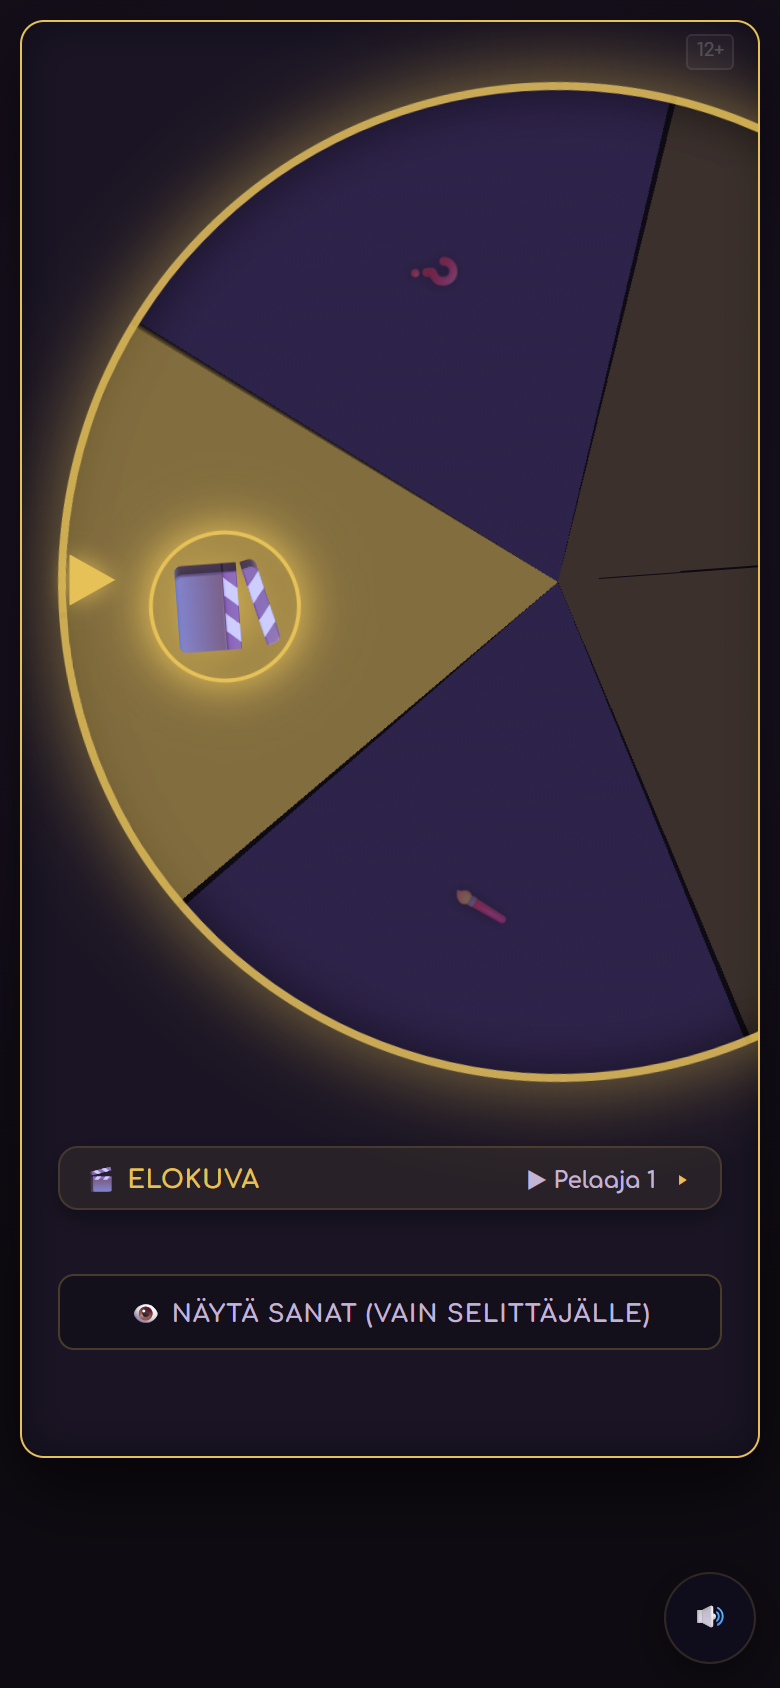
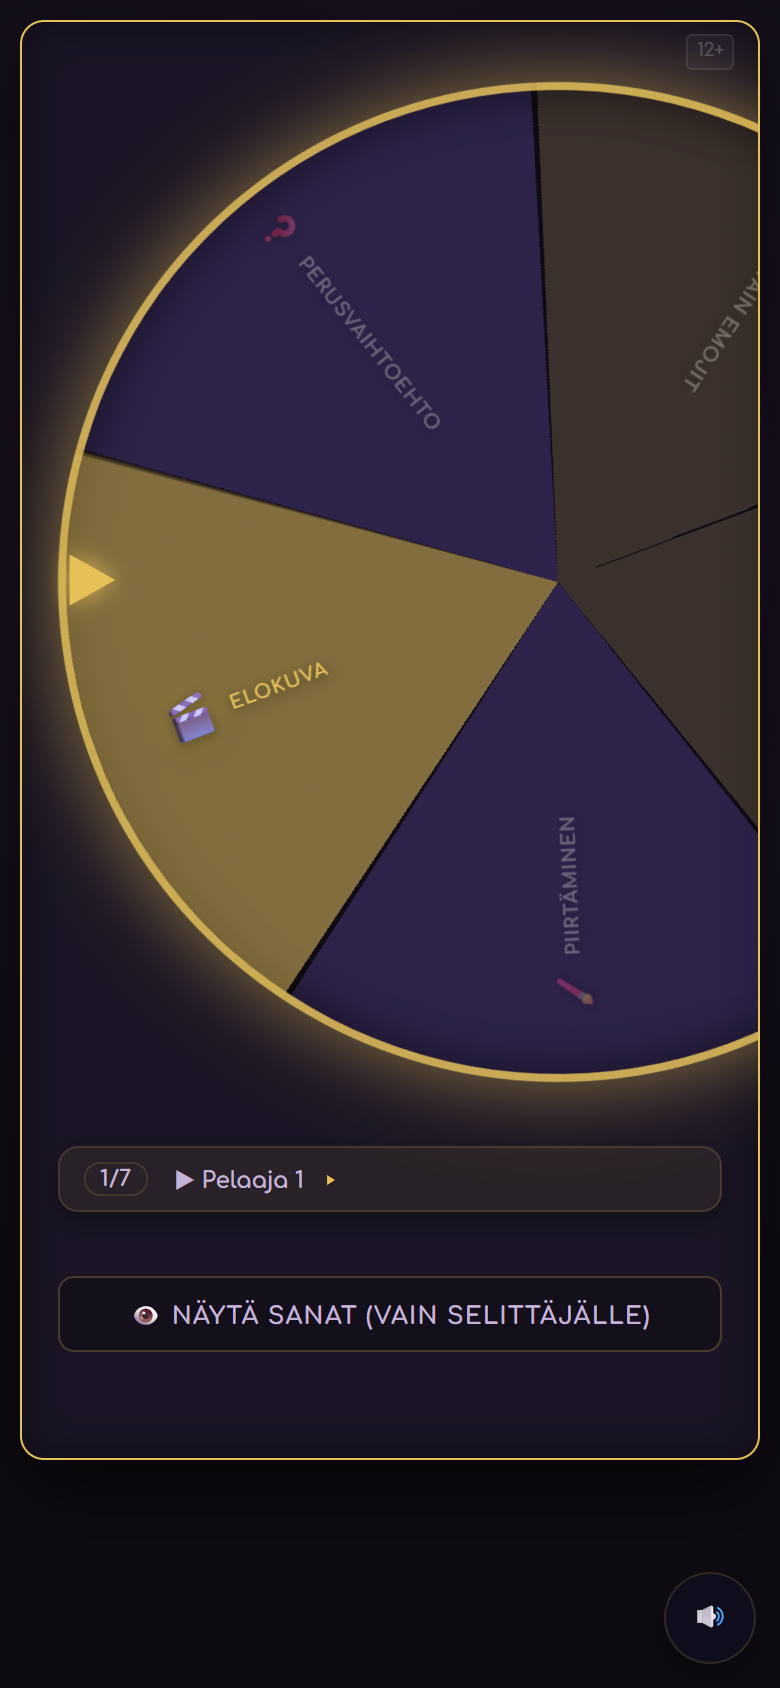
Wheel sector labels + single theme name during wheel-rest (tasks 19-20)
Task 19 — radial labels on wheel sectors:
- .theme-drum-item anchor + .drum-tag = [emoji][label] along the spoke
  (rotate(mid) translateY(-R) rotate(90°) → reads rim→hub; winner label
  always lands horizontal under the left pointer)
- smaller emojis (18-24px), uppercase labels 9-12px on all sectors
- winner accent = wedge + gold label only — removed the ::after ring
- aimPoint targets sector mid for span >= 120° so wide/single sectors
  land centered with a horizontal label

Task 20 — theme name only on the wheel while it rests:
- body:has(.drum-rest) hides #chipTheme and #themeBlock (pure CSS, no JS);
  when the wheel leaves, chip and card get the theme back automatically
- covers local (#loader) and guest (#ngDrum); vapaavalintainen keeps
  the instruction visible outside #themeBlock
- Pelaaja name duplication kept intentionally (summary↔detail pattern)

verify16 58/58, verify15 41/41, verify17 42/42, verify8 20/20.

Generated with [Devin](https://devin.ai)

diff --git a/audit/tool/verify16.js b/audit/tool/verify16.js
@@ -60,9 +60,16 @@ const wheelState = (page, loaderId, wheelId, hubId) => evl(page, (l, w, h) => {
     const cap = ld ? ld.querySelector('.drum-caption') : null;
     const wedge = wh ? wh.querySelector('.theme-drum-wedge') : null;
     const winEl = wh ? wh.querySelector('.theme-drum-item.winner') : null;
+    const winLab = winEl ? winEl.querySelector('.drum-label') : null;
+    const winLabRect = winLab ? winLab.getBoundingClientRect() : null;
     const ptr = ld ? ld.querySelector('.theme-drum-pointer') : null;
     const wr = wh ? wh.getBoundingClientRect() : null;
     const pr = ptr ? ptr.getBoundingClientRect() : null;
+    const tags = wh ? [...wh.querySelectorAll('.theme-drum-item')].map(el => ({
+        theme: el.dataset.theme,
+        label: el.querySelector('.drum-label') ? el.querySelector('.drum-label').textContent : null,
+        emoji: el.querySelector('.drum-emoji') ? el.querySelector('.drum-emoji').textContent : null
+    })) : [];
     return {
         loader: ld ? getComputedStyle(ld).display : 'MISSING',
         rest: ld ? ld.classList.contains('drum-rest') : false,
@@ -72,6 +79,10 @@ const wheelState = (page, loaderId, wheelId, hubId) => evl(page, (l, w, h) => {
         captionHidden: cap ? getComputedStyle(cap).display === 'none' : false,
         wedge: wedge ? getComputedStyle(wedge).opacity : 'none',
         winnerTheme: winEl ? winEl.dataset.theme : null,
+        winnerRing: winEl ? getComputedStyle(winEl, '::after').content : 'n/a',
+        winnerLabelColor: winLab ? getComputedStyle(winLab).color : null,
+        winnerLabelHorizontal: winLabRect ? winLabRect.width > winLabRect.height : null,
+        tags,
         pointerLeft: pr && wr ? (pr.x + pr.width / 2) < (wr.x + wr.width / 2) : null,
         wheelBleeds: wr ? wr.right > document.documentElement.clientWidth : null
     };
@@ -82,7 +93,11 @@ const panelState = (page) => evl(page, () => ({
     btnDisplay: getComputedStyle(document.getElementById('btnDisplayWords')).display,
     ruleVisible: getComputedStyle(document.getElementById('ruleInstruction')).display,
     ruleText: document.getElementById('ruleInstruction').textContent.slice(0, 60),
-    roundCtl: getComputedStyle(document.getElementById('roundControls')).display
+    roundCtl: getComputedStyle(document.getElementById('roundControls')).display,
+    chipThemeDisplay: getComputedStyle(document.getElementById('chipTheme')).display,
+    chipRoundVisible: getComputedStyle(document.getElementById('chipRound')).display !== 'none',
+    chipTurnText: document.getElementById('chipTurn').textContent,
+    themeBlockDisplay: getComputedStyle(document.getElementById('themeBlock')).display
 }));
 
 (async () => {
@@ -116,6 +131,10 @@ const panelState = (page) => evl(page, () => ({
         check('hub textContent still tracks theme', ws.hub === 'pantomiimi', ws.hub);
         check('winner wedge shown', ws.wedge === '1', ws.wedge);
         check('winner item = rolled theme', ws.winnerTheme === 'pantomiimi', String(ws.winnerTheme));
+        check('every sector has emoji+label', ws.tags.length > 0 && ws.tags.every(t => t.label === t.theme && t.emoji && t.emoji.length > 0), JSON.stringify(ws.tags));
+        check('no winner ring (::after none)', ws.winnerRing === 'none', ws.winnerRing);
+        check('winner label golden', ws.winnerLabelColor === 'rgb(229, 193, 88)', String(ws.winnerLabelColor));
+        check('winner label horizontal under pointer', ws.winnerLabelHorizontal === true);
         check('pointer at wheel left edge', ws.pointerLeft === true);
 
         let ps = await panelState(page);
@@ -123,6 +142,8 @@ const panelState = (page) => evl(page, () => ({
         check('aria-expanded=false', ps.aria === 'false', ps.aria);
         check('Näytä sanat CTA visible while wheel rests', ps.btnDisplay !== 'none', ps.btnDisplay);
         check('chip visible (aria-controls ok)', await evl(page, () => document.getElementById('turnChip').getBoundingClientRect().height > 0));
+        check('chip theme hidden during rest (only on wheel)', ps.chipThemeDisplay === 'none', ps.chipThemeDisplay);
+        check('chip keeps round+player during rest', ps.chipRoundVisible === true && /▶/.test(ps.chipTurnText), JSON.stringify(ps));
 
         await tap(page, '#btnDisplayWords'); await sleep(600);
         ws = await wheelState(page, 'loader', 'drumWheel', 'drumHubName');
@@ -132,6 +153,8 @@ const panelState = (page) => evl(page, () => ({
         ps = await panelState(page);
         check('panel still collapsed after words open', ps.collapsed === true);
         check('btnDisplayWords gone', ps.btnDisplay === 'none');
+        check('chip theme back after wheel gone', ps.chipThemeDisplay !== 'none', ps.chipThemeDisplay);
+        check('themeBlock back after wheel gone', ps.themeBlockDisplay !== 'none', ps.themeBlockDisplay);
         await page.close();
 
         // ============ B. vapaavalintainen ============
@@ -145,6 +168,8 @@ const panelState = (page) => evl(page, () => ({
         check('winner = vapaavalintainen', ws.winnerTheme === 'vapaavalintainen', String(ws.winnerTheme));
         ps = await panelState(page);
         check('panel expanded for vapaavalintainen', ps.collapsed === false, JSON.stringify(ps));
+        check('themeBlock hidden while wheel rests (no ehto dup)', ps.themeBlockDisplay === 'none', ps.themeBlockDisplay);
+        check('chip theme hidden for vapaavalintainen', ps.chipThemeDisplay === 'none', ps.chipThemeDisplay);
         check('instruction visible', ps.ruleVisible !== 'none' && /Keksi/i.test(ps.ruleText), `${ps.ruleVisible} ${ps.ruleText}`);
         check('no Näytä sanat button', ps.btnDisplay === 'none', ps.btnDisplay);
         check('round controls visible', ps.roundCtl !== 'none', ps.roundCtl);
@@ -204,6 +229,8 @@ const panelState = (page) => evl(page, () => ({
         check('B: guest caption hidden', gs.captionHidden === true);
         check('B: guest winner wedge', gs.wedge === '1', gs.wedge);
         check('B: guest winner = pantomiimi', gs.winnerTheme === 'pantomiimi', String(gs.winnerTheme));
+        check('B: guest sectors labeled', gs.tags.length > 0 && gs.tags.every(t => t.label === t.theme && t.emoji), JSON.stringify(gs.tags));
+        check('B: guest no winner ring', gs.winnerRing === 'none', gs.winnerRing);
         check('B: guest pointer at left edge', gs.pointerLeft === true);
         check('B: theme card hidden while drum rests', await evl(B, () => getComputedStyle(document.getElementById('ngThemeBlock')).display === 'none'));
 

diff --git a/styles.css b/styles.css
@@ -1098,6 +1098,12 @@ body.spell-help-modal-open {
 .drum-animation.drum-rest { animation: none; }
 .drum-animation.drum-rest .drum-caption { color: var(--gold); opacity: 0.95; }
 
+/* Teeman nimi vain pyörällä levon aikana — ei tekstikaksoiskappaleita.
+   Kun rumpu poistuu (.drum-rest pois), chip + kortti palaavat itsestään.
+   Koskee myös vierasta: #ngDrum.drum-rest → sama sääntö. */
+body:has(.drum-rest) #chipTheme { display: none; }
+body:has(.drum-rest) #themeBlock { display: none; }
+
 .flash-now {
     position: absolute;
     top: 50%;
@@ -3073,23 +3079,43 @@ body[data-net="room-guest"] .room-code-chip { display: inline-block; }
     35% { transform: translateY(-50%) rotate(20deg) scale(1.18); }
     100% { transform: translateY(-50%) rotate(0deg) scale(1); }
 }
+/* .theme-drum-item = ankkuripiste säteellä; .drum-tag (emoji + teeman nimi)
+   asettuu säteen suuntaan rotate(mid+90) ansiosta — voittajan teksti aina vaakasuora */
 .theme-drum-item {
     position: absolute;
     left: 50%;
     top: 50%;
-    font-size: clamp(24px, 6vw, 34px);
-    width: 44px;
-    height: 44px;
-    margin: -22px 0 0 -22px;
+    width: 0;
+    height: 0;
+    margin: 0;
+    z-index: 2;
+    transition: opacity 0.3s;
+}
+.drum-tag {
+    position: absolute;
+    left: 0;
+    top: 0;
+    transform: translate(-50%, -50%);
     display: flex;
     align-items: center;
-    justify-content: center;
+    gap: 6px;
+    white-space: nowrap;
     pointer-events: none;
     filter: drop-shadow(0 1px 3px rgba(0,0,0,0.7));
-    z-index: 2;
-    transition: opacity 0.3s, font-size 0.3s;
 }
-/* Voittava sektori: kultainen kiila + suuri emojikehä, muut himmenevät */
+.drum-emoji {
+    font-size: clamp(18px, 4.5vw, 24px);
+    line-height: 1;
+    transition: font-size 0.3s;
+}
+.drum-label {
+    font-size: clamp(9px, 2.4vw, 12px);
+    font-weight: 700;
+    letter-spacing: 0.6px;
+    text-transform: uppercase;
+    color: #e9e4d8;
+}
+/* Voittava sektori: kultainen kiila + korostettu kyltti, muut himmenevät */
 .theme-drum-wedge {
     position: absolute;
     inset: 0;
@@ -3102,17 +3128,15 @@ body[data-net="room-guest"] .room-code-chip { display: inline-block; }
 .theme-drum-wheel.landed .theme-drum-item { opacity: 0.35; }
 .theme-drum-wheel.landed .theme-drum-item.winner {
     opacity: 1;
-    font-size: 52px;
     z-index: 3;
-    filter: drop-shadow(0 0 12px rgba(229,193,88,0.95));
 }
-.theme-drum-item.winner::after {
-    content: '';
-    position: absolute;
-    inset: -16px;
-    border: 2px solid var(--gold);
-    border-radius: 50%;
-    box-shadow: 0 0 18px rgba(229,193,88,0.85), inset 0 0 12px rgba(229,193,88,0.3);
+.theme-drum-item.winner .drum-emoji {
+    font-size: clamp(22px, 5.5vw, 30px);
+    filter: drop-shadow(0 0 8px rgba(229,193,88,0.8));
+}
+.theme-drum-item.winner .drum-label {
+    color: var(--gold);
+    text-shadow: 0 0 10px rgba(229,193,88,0.7);
 }
 .theme-drum-hub {
     /* Keskitulos pois — ehto näkyy chipissä + voittavan sektorin kuvassa */
@@ -3122,8 +3146,9 @@ body[data-net="room-guest"] .room-code-chip { display: inline-block; }
     display: none; /* tekstikaksoiskappale pois — nimi chipissä */
 }
 @media (max-width: 360px) {
-    .theme-drum-item { font-size: 22px; width: 34px; height: 34px; margin: -17px 0 0 -17px; }
-    .theme-drum-wheel.landed .theme-drum-item.winner { font-size: 40px; }
+    .drum-emoji { font-size: 18px; }
+    .drum-label { font-size: 9px; letter-spacing: 0.4px; }
+    .theme-drum-item.winner .drum-emoji { font-size: 22px; }
 }
 @media (prefers-reduced-motion: reduce) {
     .theme-drum-wheel.spinning { animation: none; }

diff --git a/js/ui.js b/js/ui.js
@@ -659,8 +659,12 @@ window.themeDrum = (() => {
             el.dataset.a0 = a0;
             el.dataset.a1 = a1;
             const mid = (a0 + a1) / 2;
-            el.style.transform = `rotate(${mid}deg) translateY(-${R}px) rotate(${-mid}deg)`;
-            el.textContent = (typeof themeImages !== 'undefined' && themeImages[s.theme]) || '❓';
+            // Nimikyltti pitkin spokea: emoji reunassa, nimi kohti napaa.
+            // Ulomman rotate(mid) ja sisemmän rotate(90) summa = mid+90 → tagin
+            // lukusuunta rim→hub, joten voittajan teksti on aina vaakasuora.
+            el.style.transform = `rotate(${mid}deg) translateY(-${R}px) rotate(90deg)`;
+            const emoji = (typeof themeImages !== 'undefined' && themeImages[s.theme]) || '❓';
+            el.innerHTML = `<span class="drum-tag"><span class="drum-emoji">${emoji}</span><span class="drum-label">${s.theme}</span></span>`;
             wheelEl.appendChild(el);
             items.push({ el, theme: s.theme, a0, a1, mid });
         });
@@ -717,8 +721,11 @@ window.themeDrum = (() => {
     // Satunnainen pysähdyspiste voittajasektorin sisällä (ei aina täsmälleen
     // keskipisteessä — näyttää aidolta). Marginaali > OVER+GAP ettei
     // värähtely heitä osoitinta viereiseen sektoriin.
+    // Leveällä sektorilla (≥120°) osutaan keskipisteeseen: sillä keskimäinen
+    // asento osoittimen alla näyttää oikeammalta ja nimikyltti pysyy vaakassa.
     const aimPoint = (it) => {
         const span = it.a1 - it.a0;
+        if (span >= 120) return (it.a0 + it.a1) / 2;
         const margin = Math.min(span * 0.2, 14); // ≥ OVER+GAP turvassa
         const lo = it.a0 + margin, hi = it.a1 - margin;
         return lo + Math.random() * Math.max(0, hi - lo);

diff --git a/audit/tool/verify15.js b/audit/tool/verify15.js
@@ -54,6 +54,7 @@ const panelState = (page) => evl(page, () => ({
     aria: document.getElementById('turnChip').getAttribute('aria-expanded'),
     controls: document.getElementById('turnChip').getAttribute('aria-controls'),
     chipTheme: document.getElementById('chipTheme').textContent,
+    chipThemeDisplay: getComputedStyle(document.getElementById('chipTheme')).display,
     chipTurn: document.getElementById('chipTurn').textContent,
     pill: getComputedStyle(document.getElementById('btnToolCanvas')).display,
     btnDisplay: getComputedStyle(document.getElementById('btnDisplayWords')).display
@@ -97,7 +98,8 @@ const startGameAndRoll = async (page, weightId) => {
         check('panel collapsed during wheel-rest (task16)', ps.collapsed === true, JSON.stringify(ps));
         check('aria-expanded=false while wheel rests', ps.aria === 'false', ps.aria);
         check('aria-controls -> turnPanelBody', ps.controls === 'turnPanelBody', ps.controls);
-        check('chip shows theme name', /PANTOMIIMI/i.test(ps.chipTheme), ps.chipTheme);
+        // Task 20: teema vain pyörällä levon aikana — chipissä teksti tallennettu mutta piilossa
+        check('chip theme hidden during rest, textContent tracks', /PANTOMIIMI/i.test(ps.chipTheme) && ps.chipThemeDisplay === 'none', `${ps.chipTheme} ${ps.chipThemeDisplay}`);
         check('chip shows current player', /▶/.test(ps.chipTurn) && ps.chipTurn.length > 2, ps.chipTurn);
         check('Näytä sanat CTA visible pre-open', ps.btnDisplay !== 'none', ps.btnDisplay);
 

diff --git a/audit/AUDIT.md b/audit/AUDIT.md
@@ -771,3 +771,58 @@ themeDescriptions` → автоматически попадают во взве
 - Скриншоты: `wl-coach.png`, `wl-collapsed.png`, `wl-expanded.png`,
   `wl-selglow.png`, `wl-reveal-hover.png`, `wl-giveup-hold.png`,
   `wl-tool-pill.png`.
+
+## Task 19 — радиальные подписи на секторах колеса
+
+**Запрос**: на секторах колеса показывать и эмодзи (меньше), и текст темы;
+«странное кольцо» вокруг эмодзи-победителя убрать — достаточно подсветки.
+
+### Реализация (`js/ui.js` `themeDrum.mount`, `styles.css`)
+- `.theme-drum-item` — якорь 0×0 на спице `mid`; внутри `.drum-tag`
+  = `[.drum-emoji][.drum-label]` (эмодзи у края, название к центру).
+- Трансформ `rotate(mid) translateY(-R) rotate(90°)` → сумма поворотов
+  `mid+90` кладёт ось +X тега вдоль спицы, чтение rim→hub. При лендинге
+  (`θ = 270 − point`) победная подпись выходит горизонтальной под левым
+  указателем при любом секторе; остальные — наклонные, как на настоящем колесе.
+- `aimPoint`: при `span ≥ 120°` цель = середина сектора (для 1–2 секторов
+  центрированный вид и горизонтальная подпись; узкие сектора — случайная
+  точка как раньше, «реалистичность» сохранена).
+- Эмодзи: `clamp(18–24px)` (было 24–34/52); label `clamp(9–12px)` uppercase.
+- Winner: `.winner::after` кольцо удалено, `font-size:52px` убран;
+  акцент = клин + `label` золотой (`var(--gold)` + glow) + emoji 30px.
+- `data-theme`/`a0`/`a1` сохранены на якоре — verify8 не тронут.
+
+### Проверка
+- verify16 — **52/52** (+ проверки: label на каждом секторе, нет кольца,
+  золотая подпись, горизонтальность у победителя; то же у гостя).
+- verify8 — **20/20**; verify15 **41**, verify17 **42** — регрессия зелёная.
+- Скриншоты: `wr-wheel-rest.png` (1 сектор — подпись горизонтальна),
+  `wr-wedge-multi.png` (5 секторов — радиальные подписи, winner золотой).
+
+## Task 20 — имя темы только на колесе во время wheel-rest
+
+**Запрос**: после Task 19 имя темы снова ×3 (сектор + чип + «Selityksen ehto»).
+Решение: пока колесо на экране — тема живёт только на нём.
+
+### Реализация (styles.css, чистый CSS, 0 строк JS)
+```css
+body:has(.drum-rest) #chipTheme  { display: none; }
+body:has(.drum-rest) #themeBlock { display: none; }
+```
+- `.drum-rest` ставится на `#loader` (локально, rounds.js:407) и `#ngDrum`
+  (гость, network.js) — один селектор покрывает оба случая.
+- Колесо ушло (Näytä sanat / endRound / giveup) → `.drum-rest` снимается →
+  чип и карточка возвращают тему автоматически.
+- vapaavalintainen: колесо весь ход → тема только на колесе весь ход;
+  `#ruleInstruction` вне `#themeBlock` — «keksi oma sana» остаётся.
+- textContent элементов не трогаем — скрыто только отображение.
+- Pelaaja 1 ×3 (chip ▶ / Vuoro: / скорборд ▶) — оставлено осознанно
+  (summary↔detail паттерн, подтверждено пользователем).
+
+### Проверка
+- verify16 — **58/58** (+6: chipTheme display:none при rest + возврат,
+  themeBlock hidden для vapaavalintainen, round+player в чипе остаются).
+- verify15 — **41/41** (чек обновлён: textContent трекает, display:none).
+- verify17 — **42/42**, verify8 — **20/20** — регрессия зелёная.
+- Скриншот `wr-wheel-rest-expanded.png`: тема ровно ×1 (золотая подпись
+  на секторе), чип «1/7 · ▶ Pelaaja 1», в панели нет «Selityksen ehto».
